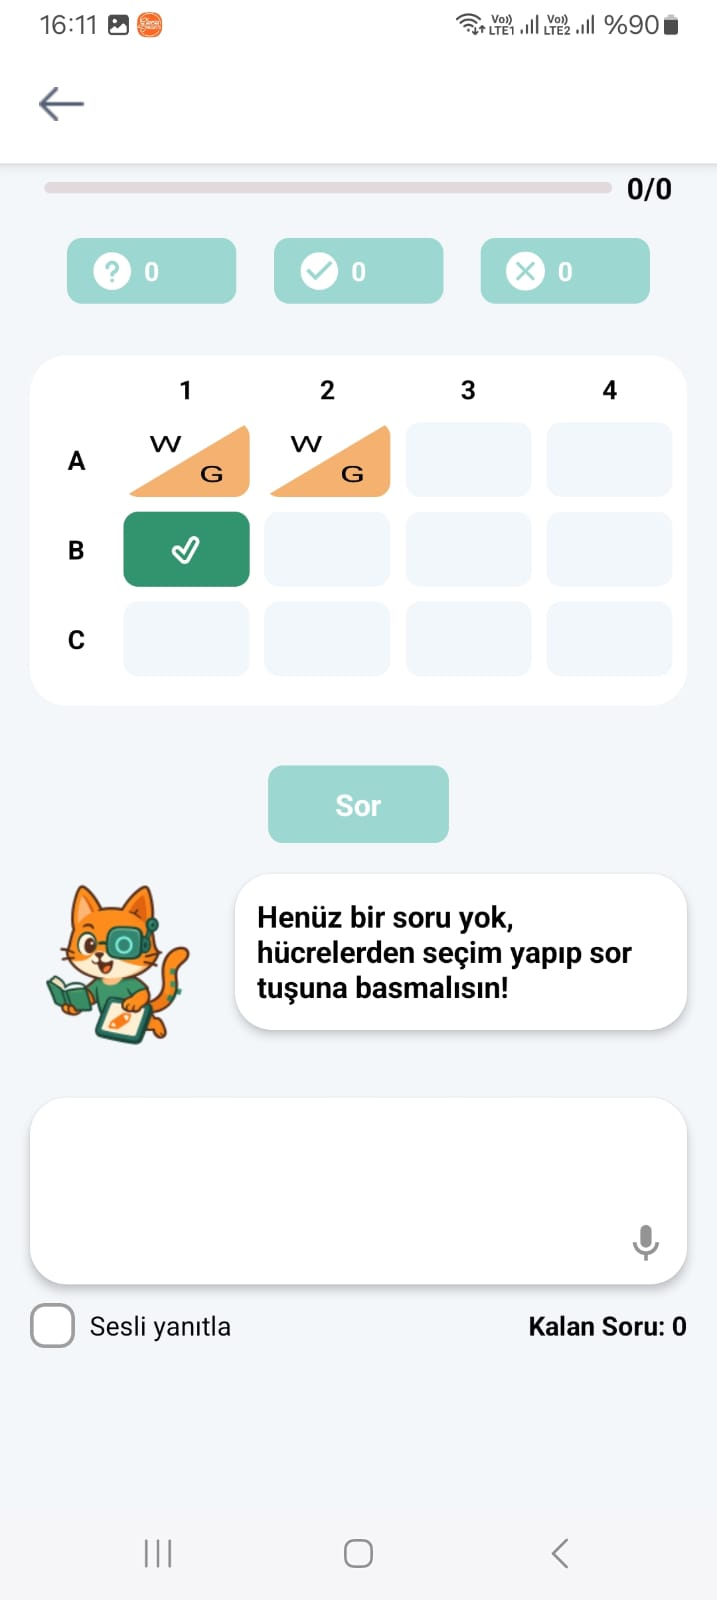
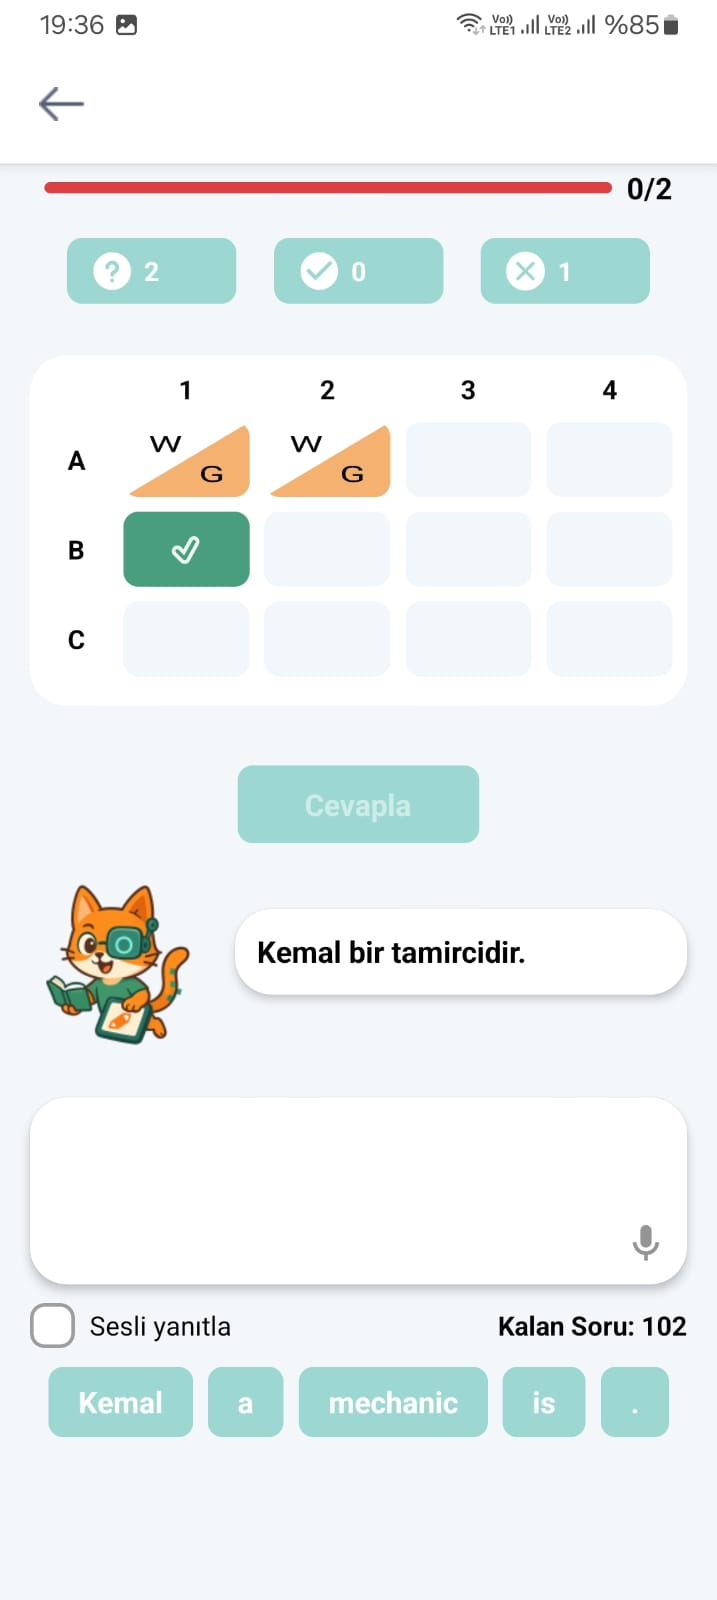
Change self english projects photos

diff --git a/src/components/Projects.tsx b/src/components/Projects.tsx
@@ -34,6 +34,9 @@ import hukuk8 from '../assets/hukuk8.jpg';
 import kelibu1 from '../assets/kelibu1.PNG';
 import kelibu2 from '../assets/kelibu2.PNG';
 import kelibu3 from '../assets/kelibu3.PNG';
+import kelibu4 from '../assets/kelibu4.PNG';
+import kelibu5 from '../assets/kelibu5.PNG';
+import kelibu6 from '../assets/kelibu6.PNG';
 
 import selfeng1 from '../assets/selfeng1.jpeg';
 import selfeng2 from '../assets/selfeng2.jpeg';
@@ -164,7 +167,7 @@ const projects: ProjectData[] = [
     title: "Kelibu",
     tech: ["React Native", "Node.js", "TypeScript", "Redux", "PostgreSQL"],
     desc: "An interactive language learning application with five game modes, dynamic learning content, and progress-based experiences for engaging vocabulary practice.",
-    images: [kelibu1, kelibu2, kelibu3],
+    images: [kelibu1, kelibu2, kelibu3, kelibu4, kelibu5, kelibu6],
     category: 'freelance',
     links: {
       playStore: "https://play.google.com/store/apps/details?id=com.phdakademi.kelibu&hl=tr",
